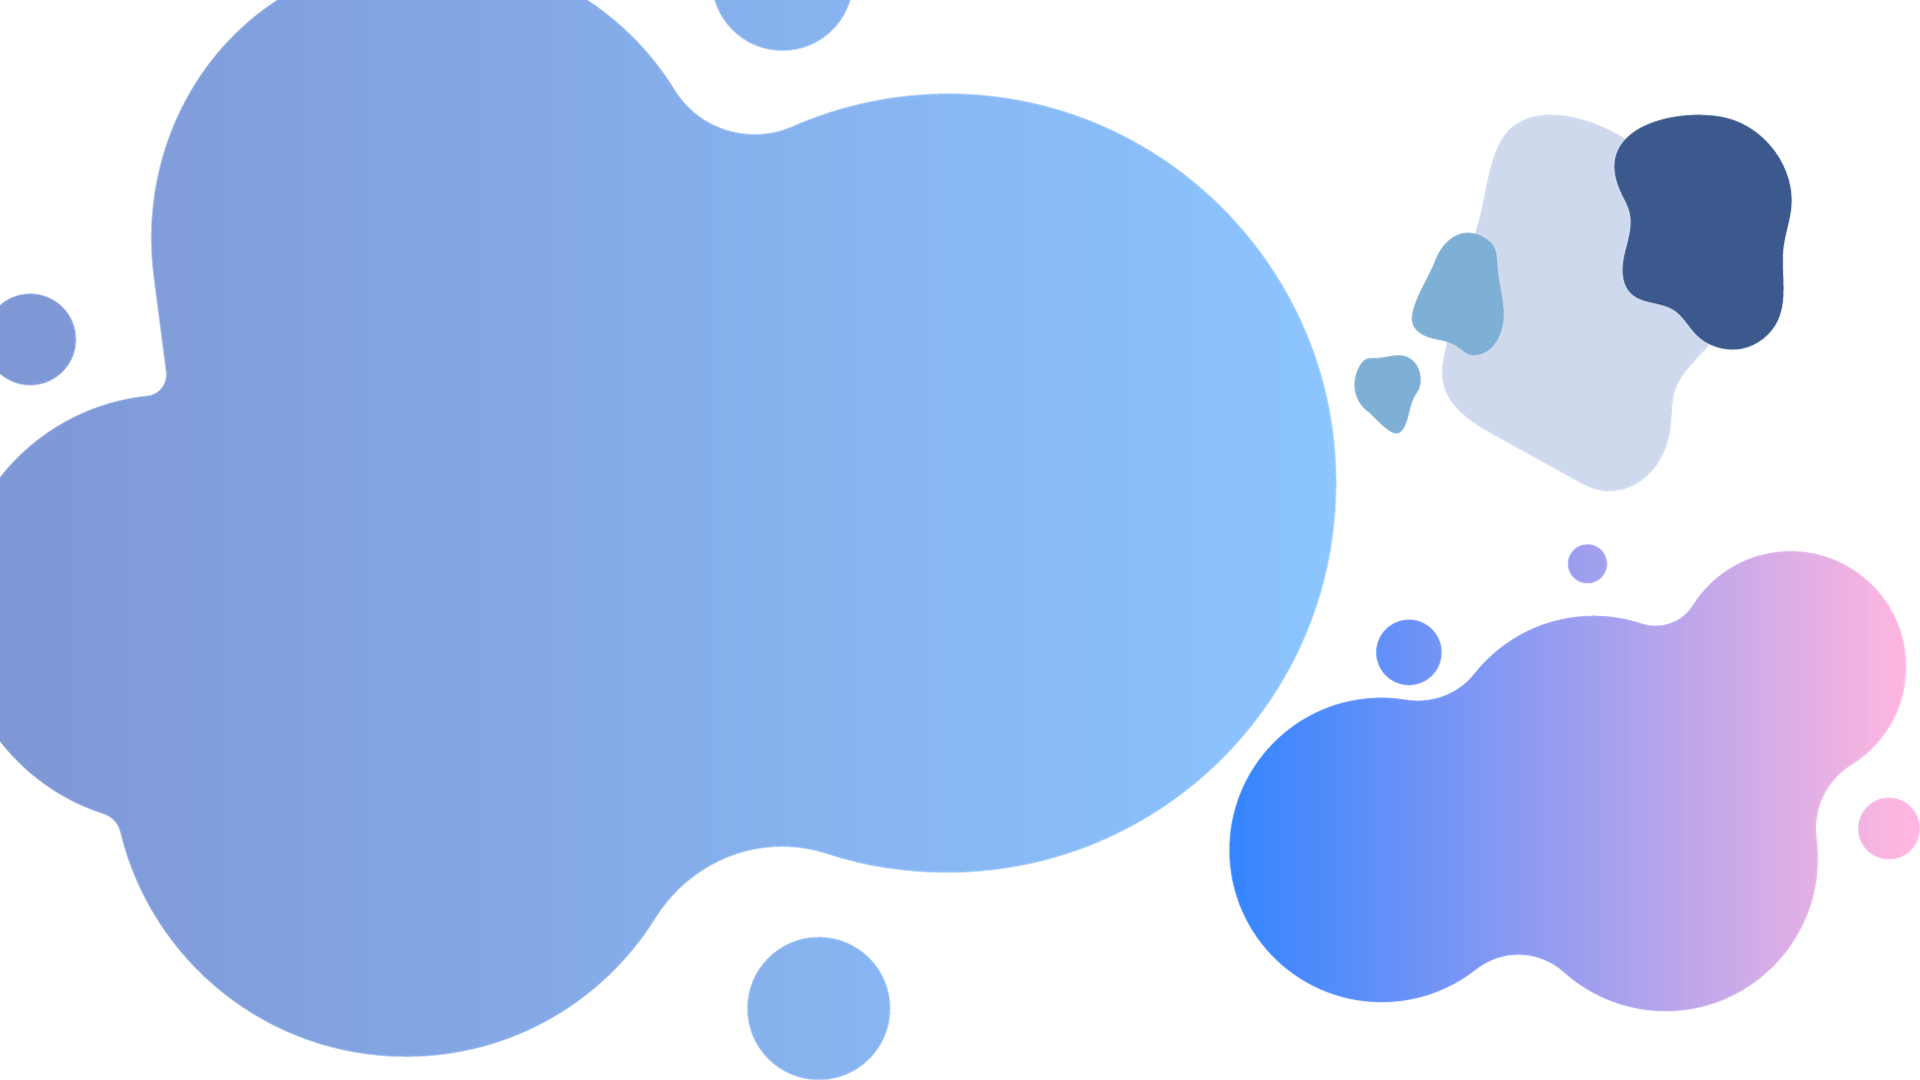
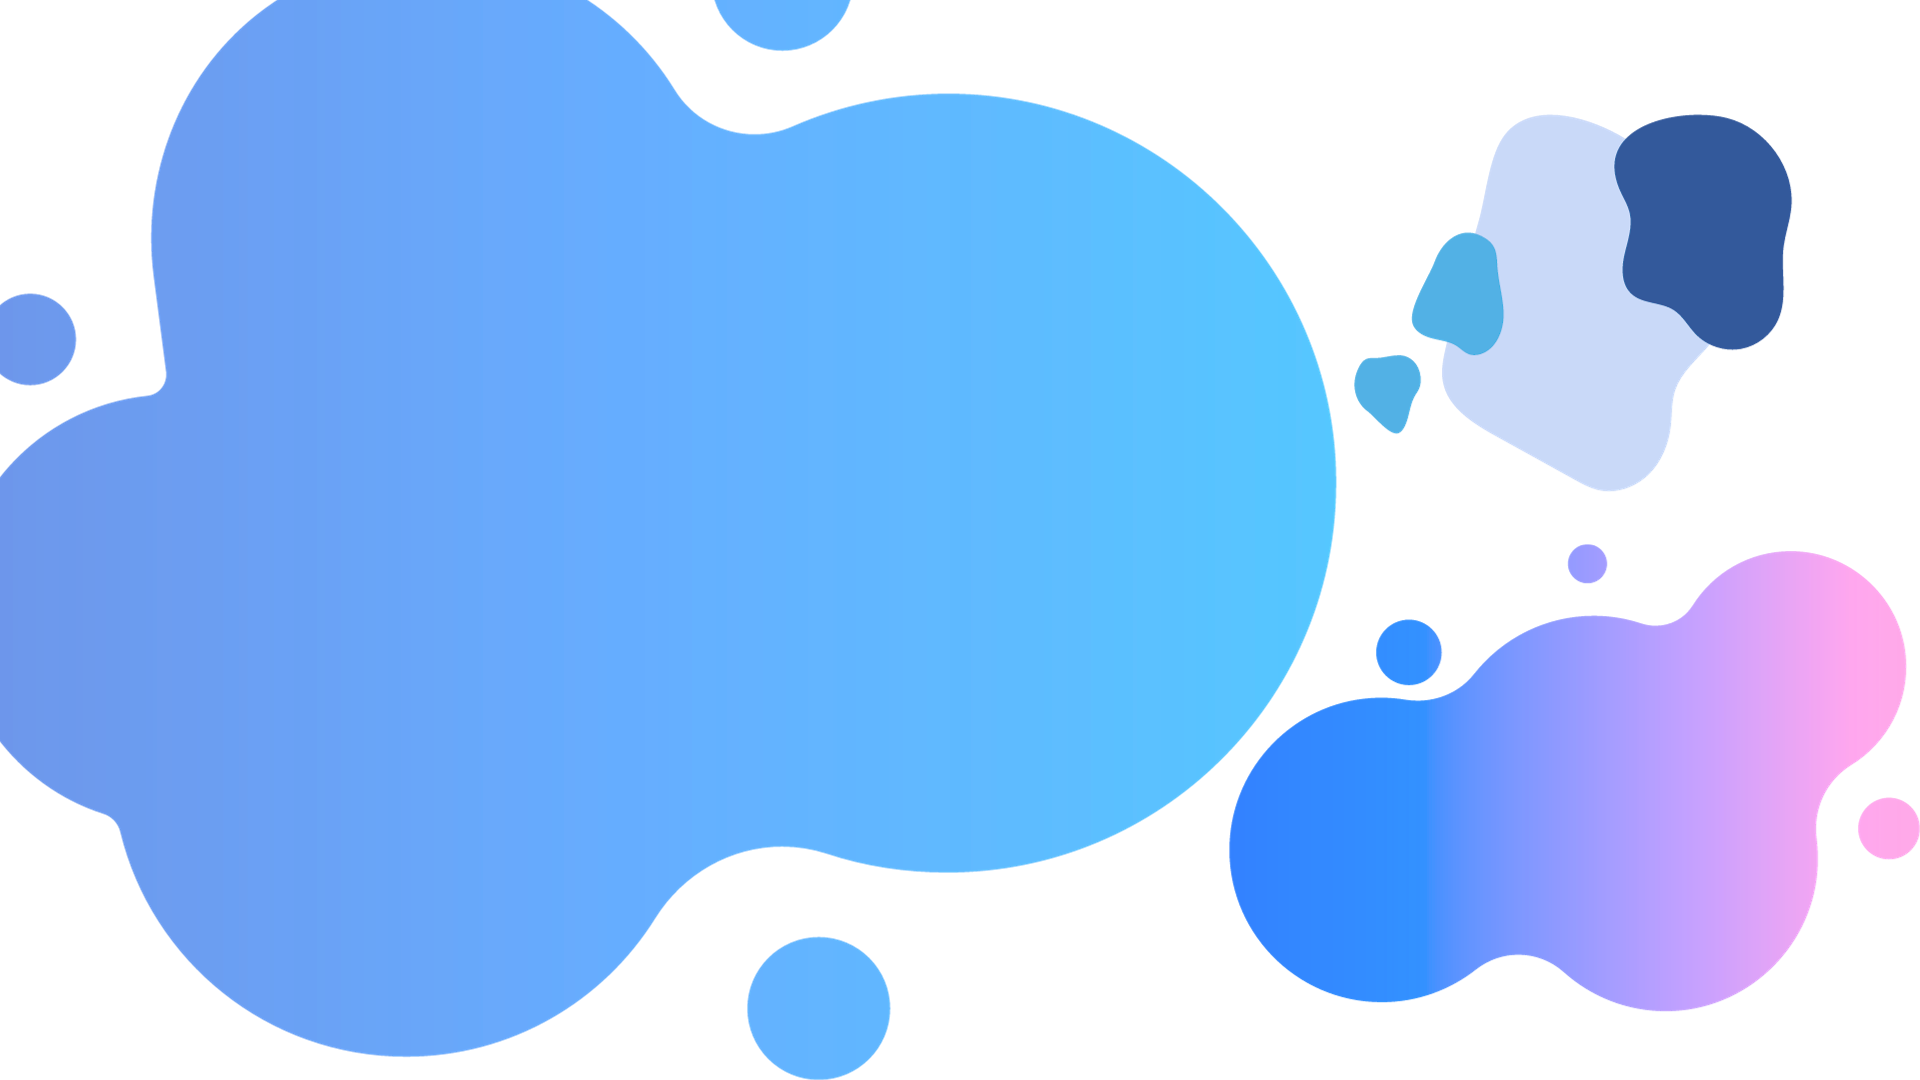
Se ha agregado la opcion de cambiar el tema

diff --git a/css/styles.css b/css/styles.css
@@ -69,12 +69,10 @@ header{
 	height: 5.4vw;
 	padding: 0 5vw;
 	z-index: 20;
-	outline: 0.2vw solid transparent;
 }
 .headerOscuro{
 	background-color: #040408bb;
 	backdrop-filter: blur(0.4vw);
-	outline: 0.2vw solid var(--light-background);
 }
 .icono{
 	display: block;
@@ -117,10 +115,10 @@ header{
 	position: fixed;
 	bottom: 3vw;
 	right: 3vw;
-	border-radius: 50%;
 	border: 0.2vw solid var(--foreground);
 	width: 4vw;
 	height: 4vw;
+	border-radius: 50%;
 	background-image: url("../icons/sol.svg");
 	background-size: 75%;
 	background-position: center;
@@ -131,7 +129,6 @@ header{
 	animation: mover 1000ms ease 700ms forwards;
 }
 .tema:hover{
-	opacity: 1;
 	filter: drop-shadow(0 0 1vw var(--foreground));
 	cursor: pointer;
 }
@@ -163,7 +160,8 @@ h1 o{
 	padding: 0 0.6vw;
 	font-family: "Jetbrains Mono NL", "monospace;";
 	font-size: 8vw;
-	outline: 0.1vw solid var(--foreground);
+	outline: 0.2vw solid var(--foreground);
+	outline-offset: -0.1vw;
 }
 .simbolo{
 	color: var(--verde);
@@ -426,6 +424,7 @@ footer img{
 }
 .logoPie{
 	width: 6vw;
+	height: 7vw;
 	margin: 2vw 0 1vw;
 }
 .logoPie:hover{
@@ -433,4 +432,51 @@ footer img{
 }
 footer p{
 	font-size: 1vw;
+}
+
+[data-theme="light"]{
+	--background: #e0e0ff;
+	--dark-background: #cad5fe;
+	--light-background: #bbddff;
+	--foreground: #101642;
+	--azul: #1793ff;
+	--negro: #080810;
+	--morado: #db4be5;
+	--rojo: #ff465e;
+	--verde: #96dd00;
+	--naranja: #ff6040;
+	--transparente: #00000000;
+	body{
+		background-image: url("../img/background_claro.png");
+	}
+	.headerOscuro{
+		background: #e0e0ffbb;
+	}
+	.icono{
+		background-image: url("../icons/logo_black.png");
+	}
+	.tema{
+		background-image: url("../icons/luna.svg");
+	}
+	.foto{
+		background-image: url("../img/Jhohan_claro.jpg");
+	}
+	.galeria{
+		background-color: var(--light-background);
+	}
+	.galeria div{
+		opacity: 0.7;
+	}
+	.galeria div:hover{
+		opacity: 1;
+	}
+	.elementos li{
+	box-shadow: 0 0 .6vw #1793ffbb;
+	}
+	footer{
+		background-color: var(--foreground);
+	}
+	footer p{
+		color: var(--light-background);
+	}
 }

diff --git a/index.html b/index.html
@@ -18,11 +18,12 @@
 	<script type="text/javascript" src="./js/flecha.js" defer></script>
 	<script type="text/javascript" src="./js/header.js" defer></script>
 	<script type="text/javascript" src="./js/link.js" defer></script>
+	<script type="text/javascript" src="./js/tema.js" defer></script>
 	<!-- titulo de pagina -->
 	<title>Jhohan Reyes</title>
 </head>
 <body>
-<button class="tema"></button>
+<button class="tema" id="tema"></button>
 <header>
 	<a href="#inicio" class="icono"></a>
 	<nav>

diff --git a/js/tema.js b/js/tema.js
@@ -1,0 +1,19 @@
+var tema = "dark";
+function aplicar(){
+	if (tema === "light"){
+		document.documentElement.setAttribute("data-theme", "light");
+	} else{
+		document.documentElement.setAttribute("data-theme", "dark");
+	}
+}
+aplicar();
+function cambiar(){
+	if (tema === "light"){
+		tema = "dark";
+	} else{
+		tema = "light";
+	}
+	aplicar();
+}
+var boton = document.getElementById("tema");
+boton.addEventListener("click", cambiar);
